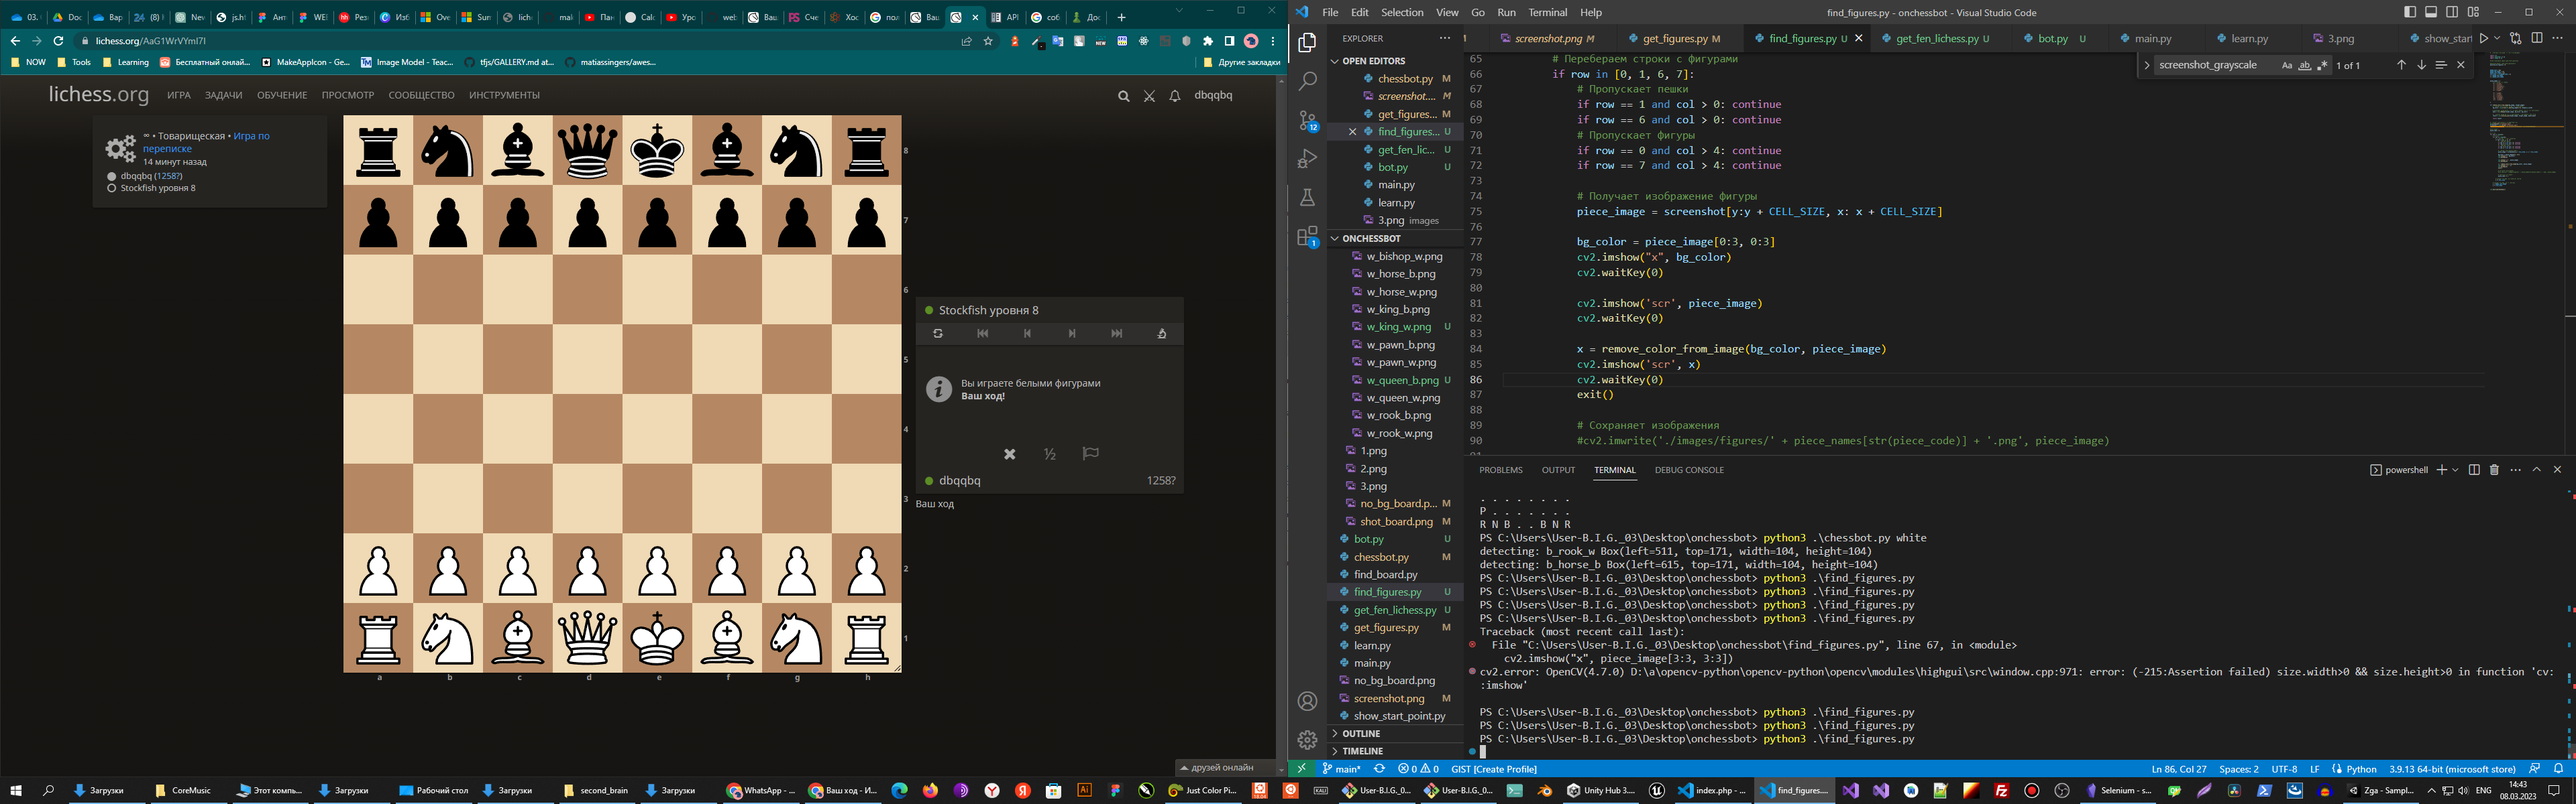
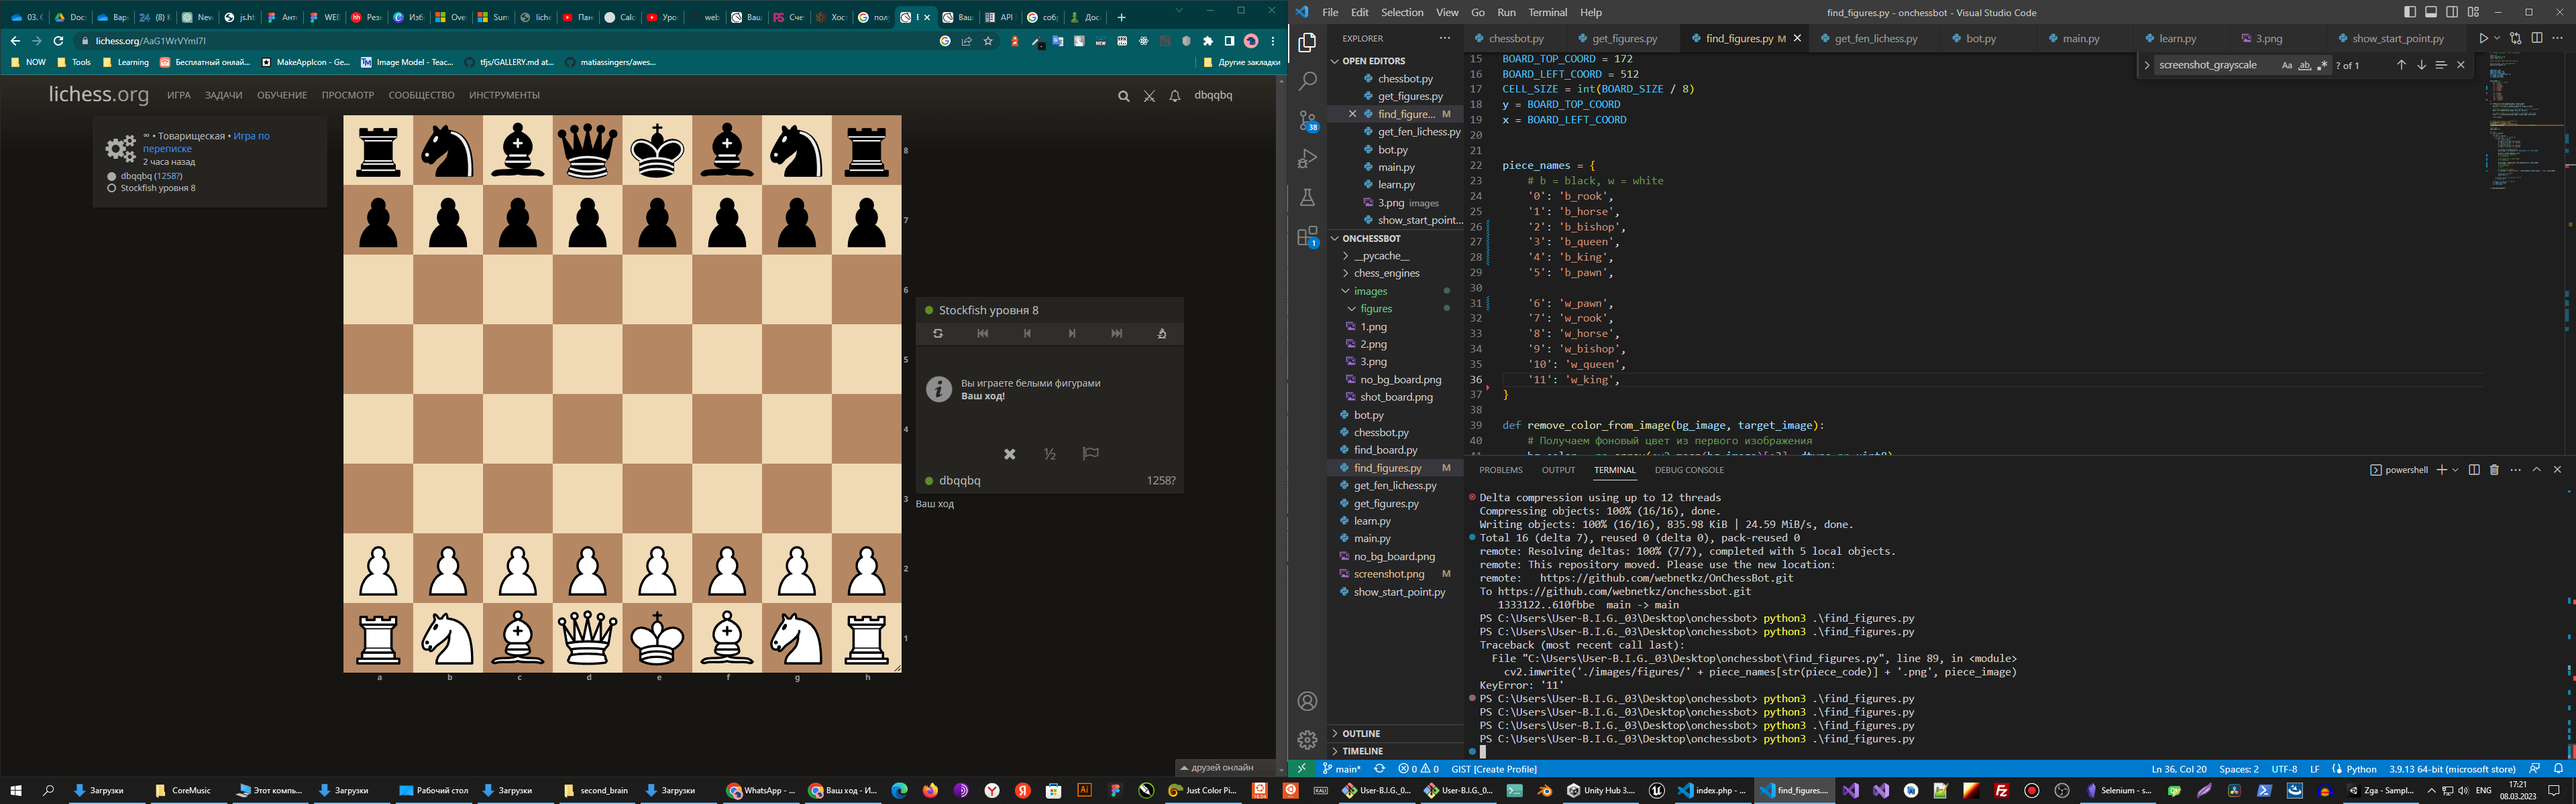
Minor update

diff --git a/find_figures.py b/find_figures.py
@@ -23,18 +23,17 @@ piece_names = {
     # b = black, w = white
     '0': 'b_rook',
     '1': 'b_horse',
-    '2': 'b_bishop_w',
-    '3': 'b_queen_b',
-    '4': 'b_king_w',
+    '2': 'b_bishop',
+    '3': 'b_queen',
+    '4': 'b_king',
     '5': 'b_pawn',
 
-    '6': 'w_pawn',
+    '6': 'w_pawn',    
     '7': 'w_rook',
     '8': 'w_horse',
     '9': 'w_bishop',
     '10': 'w_queen',
     '11': 'w_king',
-    
 }
 
 def remove_color_from_image(bg_image, target_image):
@@ -75,19 +74,19 @@ for row in range(8):
             piece_image = screenshot[y:y + CELL_SIZE, x: x + CELL_SIZE]
 
             bg_color = piece_image[0:3, 0:3]
-            cv2.imshow("x", bg_color)
-            cv2.waitKey(0)
+            # cv2.imshow("x", bg_color)
+            # cv2.waitKey(0)
 
-            cv2.imshow('scr', piece_image)
-            cv2.waitKey(0)
+            # cv2.imshow('scr', piece_image)
+            # cv2.waitKey(0)
 
-            x = remove_color_from_image(bg_color, piece_image)
-            cv2.imshow('scr', x)
-            cv2.waitKey(0)
-            exit()
+            piece_image = remove_color_from_image(bg_color, piece_image)
+            # cv2.imshow('scr', x)
+            # cv2.waitKey(0)
+            # exit()
                   
             # Сохраняет изображения
-            #cv2.imwrite('./images/figures/' + piece_names[str(piece_code)] + '.png', piece_image)
+            cv2.imwrite('./images/figures/' + piece_names[str(piece_code)] + '.png', piece_image)
                   
             # Обновляет код фигуры
             piece_code += 1
